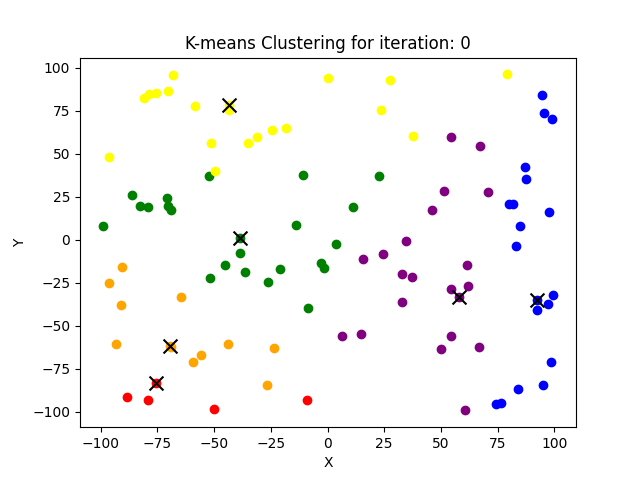
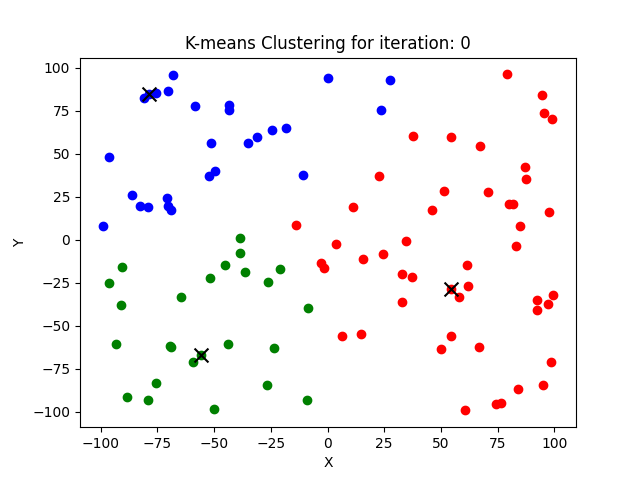
Added: - point writeable - combiner -setup methods
manca:
-roba scritta nel txt
- che fa il grafo solo se num_point < 100? e che se dim == 2

diff --git a/src/main/java/it/unipi/hadoop/Main.java b/src/main/java/it/unipi/hadoop/Main.java
@@ -91,7 +91,7 @@ public class Main {
             Job job = Job.getInstance(conf, "kmeans_iter_"+numero_iterazioni);
 
             // One reducer per every cluster
-            //job.setNumReduceTasks(k);
+            job.setNumReduceTasks(k);
 
             // Imposta le variabili di configurazione per il numero di cluster/centroidi e gli indici dei centroidi iniziali
             job.getConfiguration().setInt("k", k);

diff --git a/src/main/java/it/unipi/hadoop/k_means.java b/src/main/java/it/unipi/hadoop/k_means.java
@@ -102,7 +102,7 @@ public class k_means {
                 Configuration conf = context.getConfiguration();
                 dimensione = conf.getInt("d", -1);
             }*/
-
+            System.out.println("dimensione dal setup: "+dimensione);
             // int cluster_number = key.get() - 1 ;
 
             System.out.println("dimensione nel reducer:"+dimensione);
